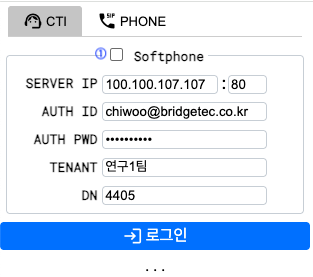
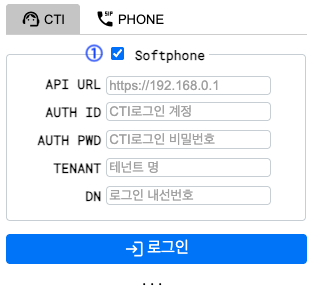
api url 지정방식변경

diff --git a/README.md b/README.md
@@ -13,7 +13,7 @@
 
 화면내 다음의 입력항목이 있으며, 마지막 지정값이 기록되어 다음사용시 유지됩니다.
 
-- SERVER IP: API 서버주소 및 포트 (http로 접속됩니다.)
+- API URL: API 서버주소 및 포트를 지정합니다. (ex, http://192.168.123.2)
 - AUTH ID: 로그인에 사용되는 email 주소
 - AUTH PWD: 로그인 비밀번호
 - TENANT: 로그인 테넌트 이름
